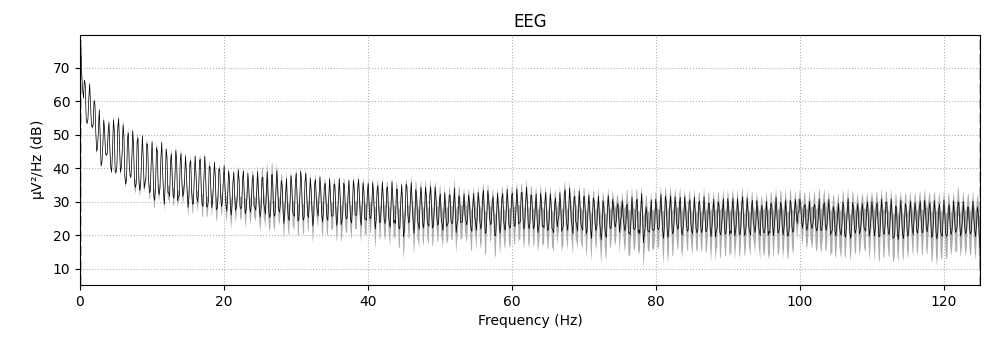
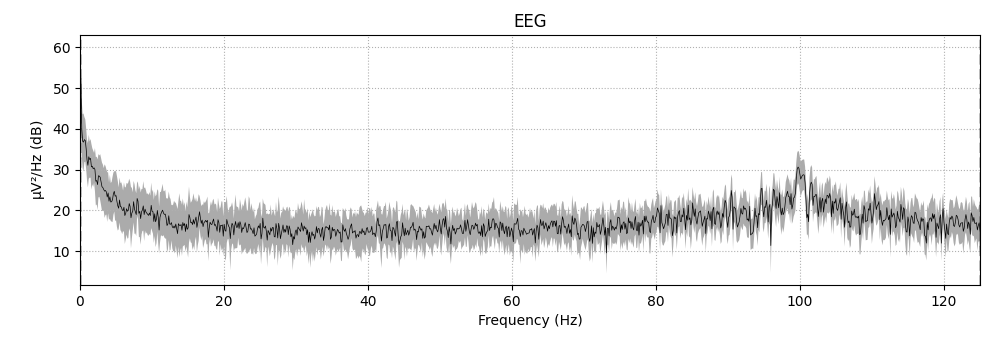
wavelet transform now safed in DataFrame

diff --git a/mr_clean.py b/mr_clean.py
@@ -52,7 +52,7 @@ sfreq = BoardShim.get_sampling_rate(BoardIds.SYNTHETIC_BOARD.value)
 info = mne.create_info(ch_names=ch_names, sfreq=sfreq, ch_types=ch_types)
 
 # get data
-df = pd.read_csv(os.path.join(filepath, "data_training_samir.csv"), header=None)
+df = pd.read_csv(os.path.join(filepath, "data_training_marcel1.csv"), header=None)
 # transpose data back to original format
 data = df.values.transpose()
 print(data.shape)
@@ -86,32 +86,40 @@ plt.savefig('psd_bandpass.png')
 # ------------------ Wavelet transformation / Fast Fourier transformation ------------------
 
 # Create an empty list to store the wavelet coefficients for all channels
-all_wavelet_coeffs = []
+all_df = pd.DataFrame()
 
-# only neede channels
-needed_eeg_channels = [3, 4, 9, 10, 11, 12]
 
 # calcute batch
 batch_size = REC_DURATION * sampling_rate
 num_batches = data.shape[1] // batch_size
 
-for count, channel in enumerate(needed_eeg_channels):
+for batch_idx in range(num_batches):
+    
+    batch_df = pd.DataFrame()
 
-    for batch_idx in range(num_batches):
+    batch_target = data[-1,batch_idx*batch_size]
+
+    for idx, channel in enumerate(eeg_channels):
+
         # Get the data for the current channel
         batch_inputs = data[channel:channel+1, batch_idx * batch_size:(batch_idx + 1) * batch_size]
-        # print(batch_inputs.shape)
 
-        wavelet_coeffs, lengths = DataFilter.perform_wavelet_transform(batch_inputs, WaveletTypes.DB5, 3)
+        # print(batch_inputs.shape)
+        wavelet_coeffs, lengths = DataFilter.perform_wavelet_transform(batch_inputs[0], WaveletTypes.DB5, 3)
         # pywt.dwt(data[channel], 'db5', 'smooth')
-        print("Wavelet coeffs for channel %d:" % channel)
         # print(wavelet_coeffs)
-        print(wavelet_coeffs.shape, lengths)
         # app_coefs = wavelet_coeffs[0: lengths[0]]
         # detailed_coeffs_first_block = wavelet_coeffs[lengths[0]: lengths[1]]
-        all_wavelet_coeffs.append(wavelet_coeffs)
+        batch_df[idx] = wavelet_coeffs
         # fft_data = DataFilter.perform_fft(data[channel], WindowOperations.NO_WINDOW.value)
 
+    batch_df[17] = [batch_target] * 400
+
+    all_df = pd.concat([all_df, batch_df], ignore_index=True)
+
+print(all_df)
+print(all_df.shape)
+exit()
 # Combine the wavelet coefficients for all channels into a single array
 all_wavelet_coeffs_array = np.array(all_wavelet_coeffs)
 
